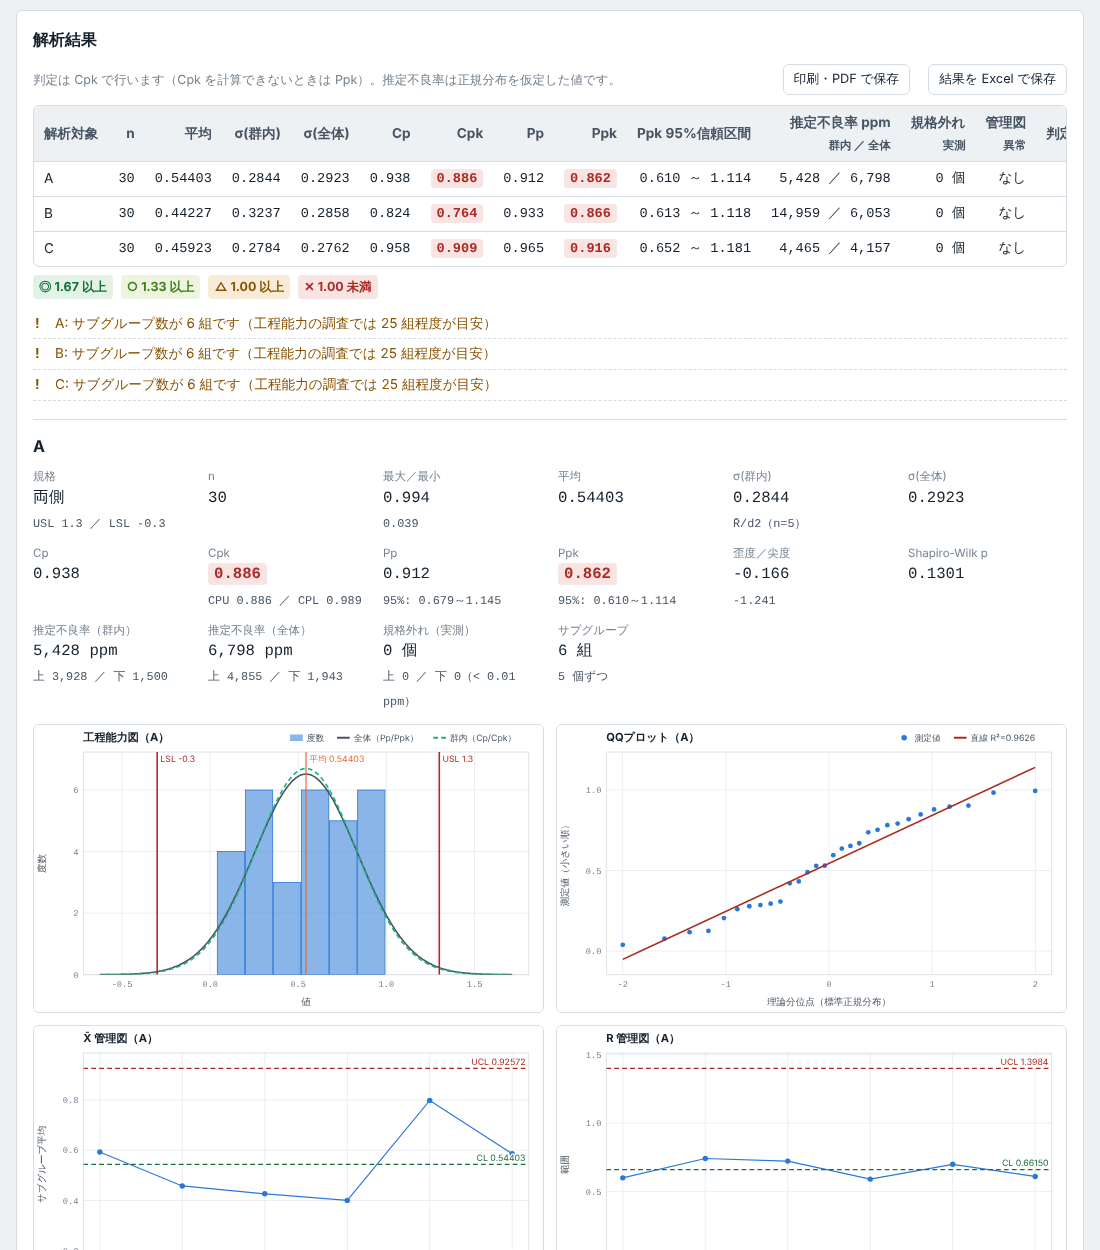
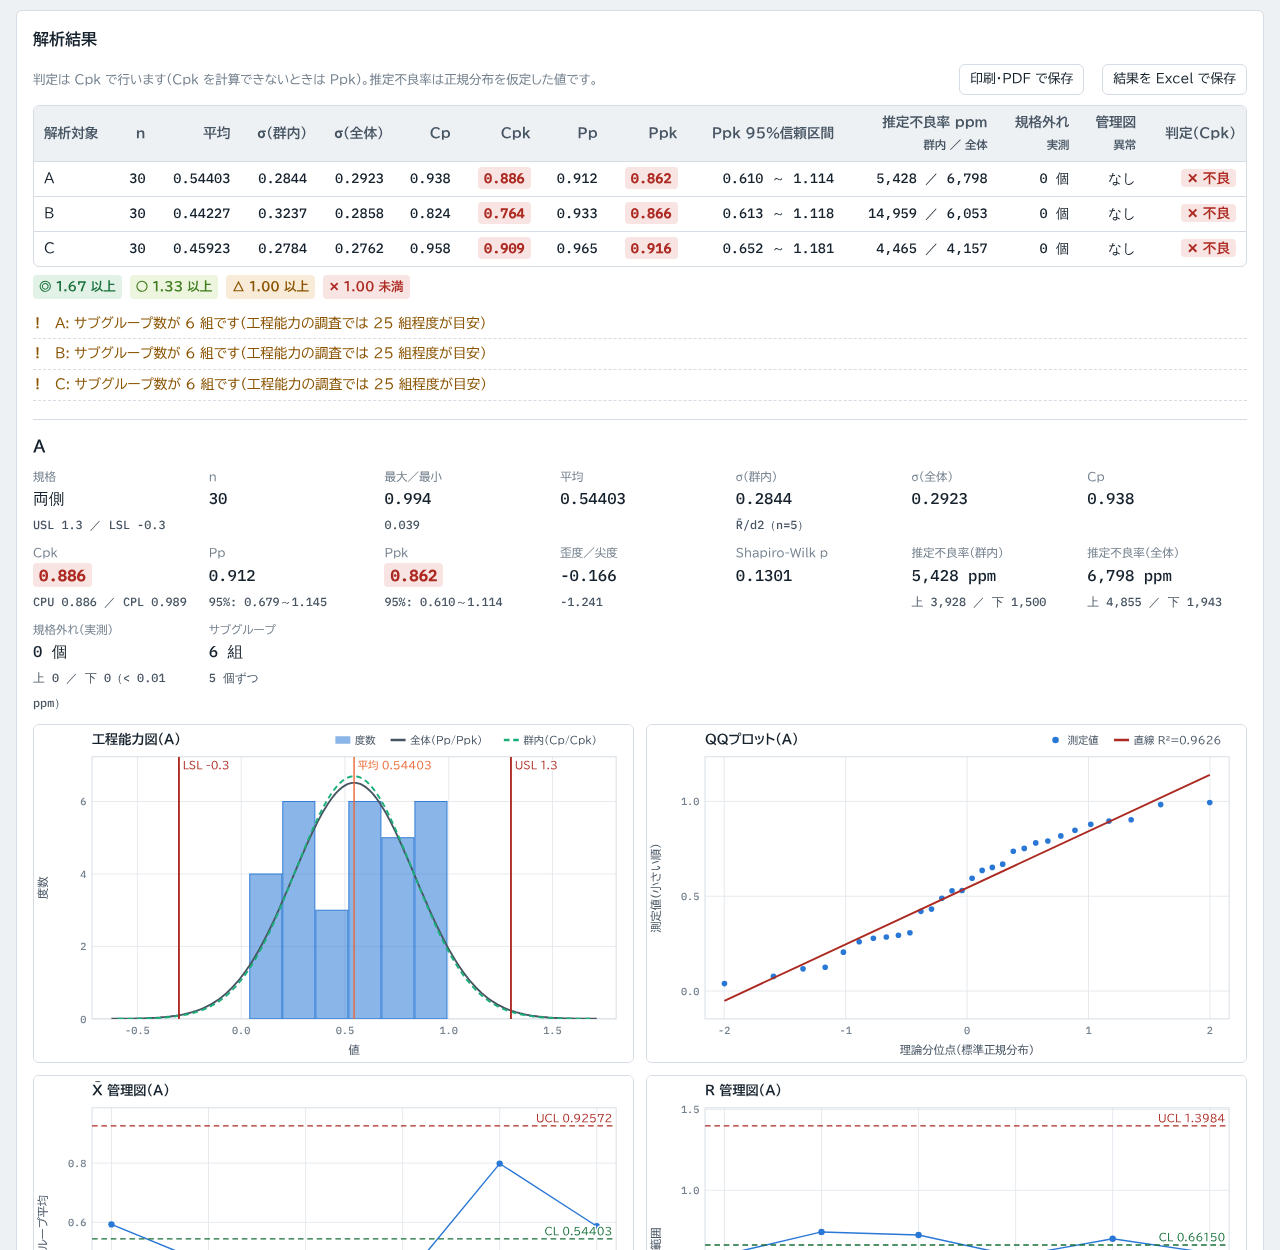
README のスクリーンショットを日本語フォントで撮り直し、オフライン用キャッシュを修正
- スクリーンショットを画面と同じ BIZ UDPGothic で撮影（撮影手順を tools/screenshots.py に追加）
- Service Worker：JS もネットワークを優先し、更新直後に新しい画面と古い JS が組み合わさらないようにした（v1.1.1）

diff --git a/sw.js b/sw.js
@@ -1,6 +1,6 @@
 // 工程能力解析の Service Worker
 // 公開ファイルを更新したら VERSION を上げる。古いキャッシュは activate 時に削除される
-const VERSION = 'v1.1.0';
+const VERSION = 'v1.1.1';
 const APP_CACHE = `cpk-calc-${VERSION}`;
 const FONT_CACHE = 'cpk-calc-fonts';
 
@@ -70,15 +70,17 @@ self.addEventListener('fetch', event => {
     return;
   }
 
-  // JS・アイコンなど: キャッシュを先に返し、裏で最新版を取得して差し替える
+  // JS・アイコンなど: ページ本体と同じくネットワークを優先し、オフライン時だけキャッシュを返す
+  // （キャッシュを先に返すと、更新直後に新しい index.html と古い JS が組み合わさり、ボタンが動かないことがある）
   event.respondWith(
     caches.open(APP_CACHE).then(async c => {
-      const hit = await c.match(req, { ignoreSearch: true });
-      const update = fetch(req).then(res => {
+      try {
+        const res = await fetch(req, { cache: 'no-cache' });
         if (res.ok) c.put(req, res.clone());
         return res;
-      }).catch(() => null);
-      return hit || (await update) || new Response('', { status: 504 });
+      } catch (e) {
+        return (await c.match(req, { ignoreSearch: true })) || new Response('', { status: 504 });
+      }
     })
   );
 });

diff --git a/tools/screenshots.py b/tools/screenshots.py
@@ -1,0 +1,57 @@
+# README 用のスクリーンショットを撮り直す（docs/screenshots/ に保存）
+#   pip install playwright && python -m playwright install chromium
+#   npm pack @fontsource/biz-udpgothic @fontsource/ibm-plex-mono  → 展開したフォルダを FONT_DIR に置く
+#   python -m http.server 8765   （リポジトリのルートで起動しておく）
+#   python tools/screenshots.py [FONT_DIR]
+# 画面と同じ字体（BIZ UDPGothic・IBM Plex Mono）で撮るため、Google Fonts への要求を手元のフォントで返す
+import sys, re
+from pathlib import Path
+from playwright.sync_api import sync_playwright
+
+ROOT = Path(__file__).resolve().parent.parent
+OUT = ROOT / 'docs' / 'screenshots'
+FONT_DIR = Path(sys.argv[1] if len(sys.argv) > 1 else 'fonts')
+URL = 'http://localhost:8765/index.html'
+
+def font_css():
+    css = ''
+    for pkg, files in [('biz-udpgothic', ['400.css', '700.css']), ('ibm-plex-mono', ['500.css'])]:
+        base = next(FONT_DIR.glob(f'fontsource-{pkg}-*/package'))
+        for f in files:
+            css += re.sub(r'url\(\./files/([^)]+)\)', lambda m: f'url(https://fonts.local/{pkg}/{m.group(1)})', (base / f).read_text(encoding='utf-8'))
+    return css
+
+def route_fonts(page):
+    css = font_css()
+    page.route('https://fonts.googleapis.com/**', lambda r: r.fulfill(status=200, content_type='text/css', body=css))
+    def serve(r):
+        pkg, name = r.request.url.split('https://fonts.local/')[1].split('/', 1)
+        path = next(FONT_DIR.glob(f'fontsource-{pkg}-*/package/files')) / name
+        r.fulfill(status=200, content_type='font/woff2' if name.endswith('woff2') else 'font/woff', body=path.read_bytes())
+    page.route('https://fonts.local/**', serve)
+
+def shoot(page, selector, path, height):
+    # 結果の表が切れないよう、撮影時だけ本文の最大幅を広げる
+    page.add_style_tag(content='header.top{position:static!important}.wrap,.top-in{max-width:1280px!important}')
+    page.mouse.move(0, 0)
+    page.evaluate('document.fonts.ready')
+    y = page.locator(selector).bounding_box()['y'] + page.evaluate('scrollY')
+    page.screenshot(path=str(path), full_page=True, clip={'x': 0, 'y': y - 10, 'width': 1280, 'height': height})
+
+with sync_playwright() as p:
+    b = p.chromium.launch()
+    pg = b.new_page(viewport={'width': 1280, 'height': 900})
+    route_fonts(pg)
+    pg.goto(URL); pg.wait_for_load_state('networkidle')
+    pg.click('#sampleBtn'); pg.wait_for_selector('#targetChips input')
+    for t in 'ABC': pg.check(f'#targetChips input[value="{t}"]')
+    pg.check('#sameSpec'); pg.fill('#specBody input[data-k="usl"]', '1.3'); pg.fill('#specBody input[data-k="lsl"]', '-0.3')
+    pg.click('#runCap'); pg.wait_for_selector('#summary table'); pg.wait_for_timeout(500)
+    # 字体が読み込まれる前に描いたグラフを描き直す
+    pg.evaluate('document.fonts.ready'); pg.click('#themeBtn'); pg.click('#themeBtn'); pg.click('#themeBtn')
+    shoot(pg, '#capResult', OUT / 'capability.png', 1250)
+    pg.click('nav.tabs button[data-tab="test"]'); pg.select_option('#tKind', 'welch'); pg.check('#doOverlay')
+    pg.click('#runTest'); pg.wait_for_selector('#testCards .res'); pg.wait_for_timeout(500)
+    shoot(pg, '#testResult', OUT / 'test.png', 900)
+    b.close()
+print('docs/screenshots/ に保存しました')
